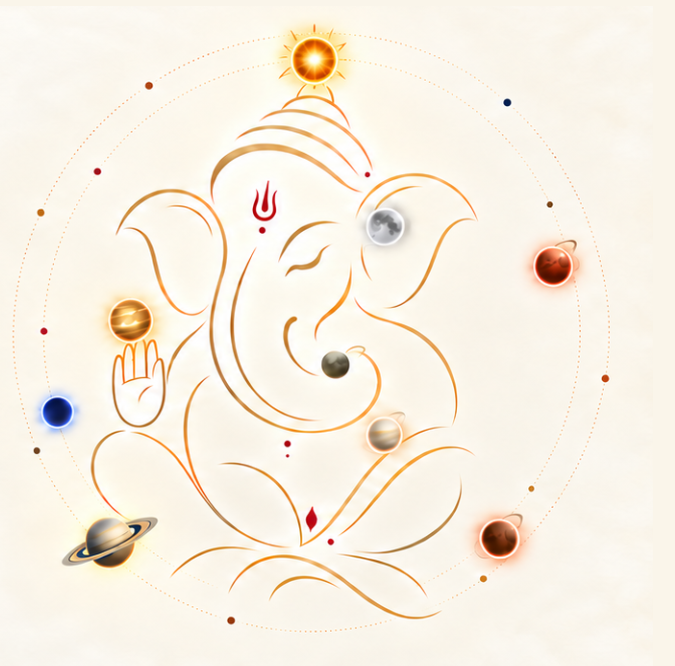
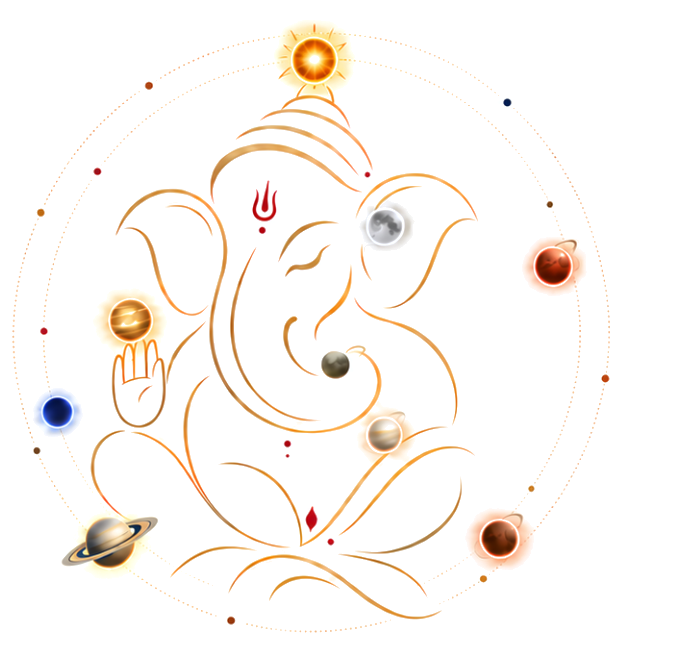
feat(ui): transparent Ganesha, no-scroll Saved charts table, simpler header/footer, Home order
Saved charts: Ganesha art background removed and refitted; table columns re-laid out for the
Name No. column and made non-scrolling. Header drops the logo/name; footer shows the Ganesha
with 'Purpose - by Ramakrishnan P' at 80%. Home lists compatibility and view charts before Add New.

diff --git a/src/Ikiastrro.Web/Components/Pages/SavedCharts.razor.css b/src/Ikiastrro.Web/Components/Pages/SavedCharts.razor.css
@@ -22,13 +22,15 @@
     min-height: calc(100vh - 220px);
 }
 
-.sp-art { overflow: hidden; border-radius: 16px; background: var(--brand-canvas); }
+.sp-art { display: flex; align-items: center; justify-content: center; overflow: hidden; background: transparent; }
 
 .sp-art img {
     display: block;
     width: 100%;
-    height: 100%;
+    height: auto;
+    max-height: calc(100vh - 220px);
     object-fit: contain;
+    background: transparent;
 }
 
 .sp-content {
@@ -132,20 +134,26 @@ h1 {
     color: var(--brand-midnight);
 }
 
-.saved-charts-table ::deep .dt th:first-child,
-.saved-charts-table ::deep .dt td:first-child { width: 20%; }
+/* No horizontal scroll: fixed layout, every column wraps inside the card (8 columns). */
+.saved-charts-table ::deep .dt-scroll { overflow-x: visible; }
+.saved-charts-table ::deep .dt { table-layout: fixed; width: 100%; }
+.saved-charts-table ::deep .dt td, .saved-charts-table ::deep .dt-sort { overflow-wrap: anywhere; }
+.saved-charts-table ::deep .dt th:nth-child(1),
+.saved-charts-table ::deep .dt td:nth-child(1) { width: 17%; }
 .saved-charts-table ::deep .dt th:nth-child(2),
-.saved-charts-table ::deep .dt td:nth-child(2) { width: 16%; white-space: nowrap; }
+.saved-charts-table ::deep .dt td:nth-child(2) { width: 8%; }
 .saved-charts-table ::deep .dt th:nth-child(3),
-.saved-charts-table ::deep .dt td:nth-child(3) { width: 14%; white-space: nowrap; }
+.saved-charts-table ::deep .dt td:nth-child(3) { width: 12%; }
 .saved-charts-table ::deep .dt th:nth-child(4),
-.saved-charts-table ::deep .dt td:nth-child(4) { width: 24%; }
+.saved-charts-table ::deep .dt td:nth-child(4) { width: 8%; }
 .saved-charts-table ::deep .dt th:nth-child(5),
-.saved-charts-table ::deep .dt td:nth-child(5) { width: 14%; }
-/* 3 icon buttons now (Edit/Delete/Print, rammyps 2026-09-23) — a touch wider than the 2-button
-   original so they don't crowd. */
-.saved-charts-table ::deep .dt th:last-child,
-.saved-charts-table ::deep .dt td:last-child { width: 12%; }
+.saved-charts-table ::deep .dt td:nth-child(5) { width: 19%; }
+.saved-charts-table ::deep .dt th:nth-child(6),
+.saved-charts-table ::deep .dt td:nth-child(6) { width: 10%; }
+.saved-charts-table ::deep .dt th:nth-child(7),
+.saved-charts-table ::deep .dt td:nth-child(7) { width: 15%; }
+.saved-charts-table ::deep .dt th:nth-child(8),
+.saved-charts-table ::deep .dt td:nth-child(8) { width: 11%; }
 
 .row-actions {
     display: flex;
@@ -412,6 +420,7 @@ h1 {
     color: var(--brand-midnight);
     font: 500 calc(var(--font-size-control) * 0.9) / 1.2 'Manrope', 'Segoe UI', sans-serif;
 }
+
 
 /* Name / Date of Birth / Time of Birth / City / Country — centred label + input, each input
    capped to a readable width instead of stretching the full modal (rammyps, 2026-09-14). Sex

diff --git a/src/Ikiastrro.Web/Components/Layout/MainLayout.razor.css b/src/Ikiastrro.Web/Components/Layout/MainLayout.razor.css
@@ -122,11 +122,8 @@
 }
 
 .ik-brand-icon {
-    width: 40px;
-    height: 40px;
-    padding: 4px;
-    border-radius: 10px;
-    background: var(--cosmos-architecture);
+    width: 64px;
+    height: 64px;
     object-fit: contain;
     flex: none;
 }
@@ -136,6 +133,7 @@
     flex-direction: column;
     gap: 1px;
     white-space: nowrap;
+    font-size: 0.8em;   /* 20% smaller than the footer's Level 4 heading size */
 }
 
 .ik-brand-name {
